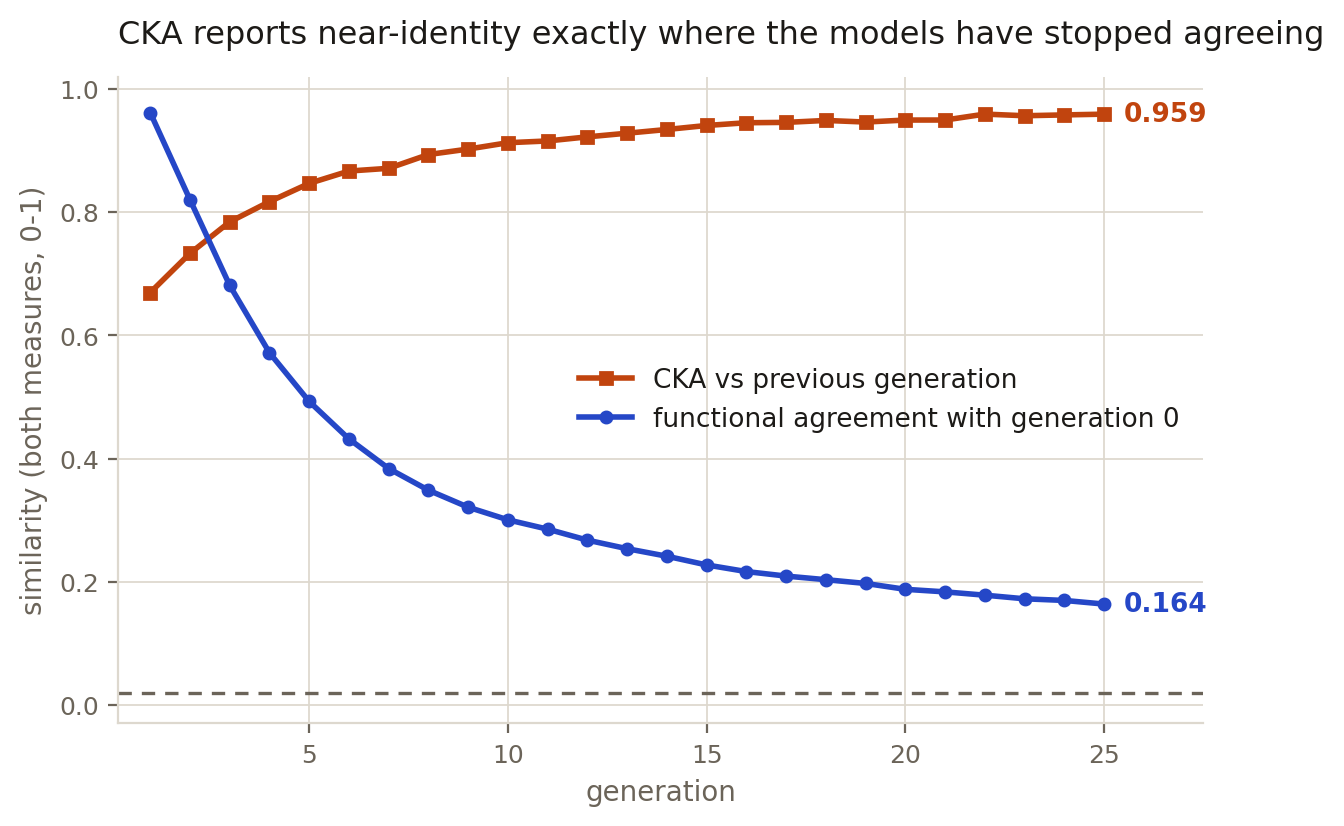
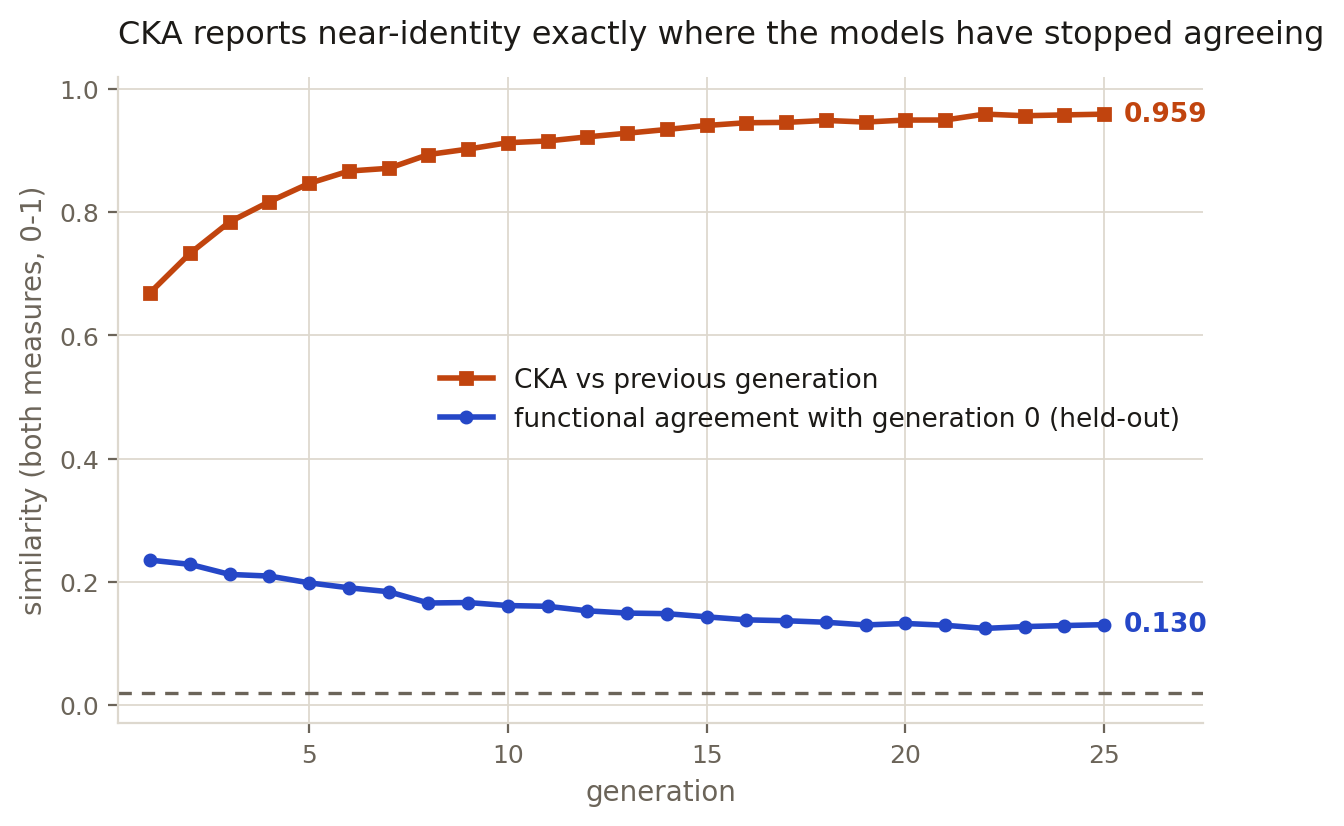
Successfully regenerated agreement figures

diff --git a/analysis/plot_chain.py b/analysis/plot_chain.py
@@ -46,6 +46,30 @@ def col(rows, key):
     return [r["gen"] for r in rows], [r[key] for r in rows]
 
 
+# ---------------------------------------------------------------- C-6 probe data
+#
+# `load` above reads the per-generation JSONL written by
+# `spike_iterated_distill.py --log`, whose metrics are computed on the pool the
+# chain trains on. C-6 (`controls/c6_probe_pool.py`) re-ran every condition
+# measuring on a held-out pool as well, and writes a single nested JSON instead,
+# so it gets its own reader rather than bending `load` to two shapes.
+#
+# Figures that plot agreement read the probe values. C-6 established that the
+# training-pool numbers overstate faithfulness — by 0.753 at generation 1 in the
+# argmax condition — so they are not what a claim should rest on.
+
+def load_c6():
+    with open(os.path.join(LOGS, "c6_probe_pool.json")) as handle:
+        data = json.load(handle)
+    return {r["condition"]: r for r in data["results"]}
+
+
+def c6_col(cond, pool, key):
+    """Generations and one metric for one condition, on the chosen pool."""
+    rows = cond["rows"]
+    return [r["gen"] for r in rows], [r[pool][key] for r in rows]
+
+
 def style(ax, xlabel, ylabel, title):
     ax.set_xlabel(xlabel, fontsize=10, color=MUTED)
     ax.set_ylabel(ylabel, fontsize=10, color=MUTED)
@@ -67,25 +91,67 @@ def save(fig, name):
     print(f"wrote {os.path.relpath(path, REPO)}")
 
 
-def fig_decay():
-    """Agreement with generation 0, swept over distillation temperature."""
-    fig, ax = plt.subplots(figsize=(7, 4.2))
+def fig_train_vs_probe():
+    """C-6: what the training pool hid.
+
+    Replaces the earlier temperature-sweep figure, which plotted training-pool
+    agreement and showed a clean monotone ordering in tau. That ordering does not
+    exist on held-out inputs. Dashed traces are the training pool, solid are the
+    probe pool; the gap between them is the measurement error, not a result.
+    """
+    c6 = load_c6()
+    fig, (a, b) = plt.subplots(1, 2, figsize=(10.5, 4.3))
+
+    # Left: the temperature ordering, and its disappearance.
     for tau in ("0.5", "1.0", "2.0"):
-        rows = load(f"tau{tau}_b4096.jsonl")
-        x, y = col(rows, "agree_gen0")
-        ax.plot(x, y, color=SEQ[tau], linewidth=2, marker="o", markersize=4,
-                label=f"tau = {tau}")
-        ax.annotate(f"{y[-1]:.3f}", (x[-1], y[-1]), textcoords="offset points",
-                    xytext=(7, 0), fontsize=9, color=SEQ[tau], va="center")
-    ax.axhline(CHANCE, color=MUTED, linewidth=1.2, linestyle=(0, (4, 3)))
-    ax.annotate(f"chance = {CHANCE:.3f}", (0.4, CHANCE), textcoords="offset points",
-                xytext=(0, 7), fontsize=9, color=MUTED)
-    style(ax, "generation", "functional agreement with generation 0",
-          "Ancestral information decays monotonically at every temperature")
-    ax.set_ylim(-0.03, 1.02)
-    ax.set_xlim(0.2, 27.5)
-    ax.legend(frameon=False, fontsize=9.5, labelcolor=INK)
-    save(fig, "fig1_decay_by_temperature.png")
+        cond = c6[f"tau{tau}_b4096"]
+        x, tr = c6_col(cond, "train", "agree_gen0")
+        _, pr = c6_col(cond, "probe", "agree_gen0")
+        a.plot(x, tr, color=SEQ[tau], linewidth=1.4, linestyle=(0, (4, 3)), alpha=.85)
+        a.plot(x, pr, color=SEQ[tau], linewidth=2.2, marker="o", markersize=3.5,
+               label=f"tau = {tau}")
+    a.axhline(CHANCE, color=MUTED, linewidth=1.2, linestyle=(0, (4, 3)))
+    a.annotate(f"chance = {CHANCE:.3f}", (0.4, CHANCE), textcoords="offset points",
+               xytext=(0, 7), fontsize=9, color=MUTED)
+    # The three probe traces land within 0.013 of each other, which is closer than
+    # chance agreement itself — so they are labelled as one cluster rather than
+    # three values that would simply overprint.
+    a.annotate("all three within 0.013,\ncloser than chance", (25, 0.137),
+               textcoords="offset points", xytext=(-96, 46), fontsize=9,
+               color=INK, ha="left",
+               arrowprops=dict(arrowstyle="->", color=INK, lw=1.1))
+    style(a, "generation", "functional agreement with generation 0",
+          "Temperature orders decay only on training data")
+    a.set_ylim(-0.03, 1.02)
+    a.legend(frameon=False, fontsize=9.5, labelcolor=INK)
+
+    # Right: argmax, where the gap is present before any chaining happens.
+    cond = c6["argmax"]
+    x, tr = c6_col(cond, "train", "agree_gen0")
+    _, pr = c6_col(cond, "probe", "agree_gen0")
+    b.fill_between(x, pr, tr, color=CAT[1], alpha=.13, linewidth=0)
+    b.plot(x, tr, color=CAT[1], linewidth=1.6, linestyle=(0, (4, 3)),
+           label="training pool")
+    b.plot(x, pr, color=CAT[1], linewidth=2.2, marker="o", markersize=3.5,
+           label="held-out probe pool")
+    for series, value in ((tr, tr[-1]), (pr, pr[-1])):
+        b.annotate(f"{value:.3f}", (x[-1], value), textcoords="offset points",
+                   xytext=(7, 0), fontsize=9.5, color=CAT[1], va="center",
+                   weight="bold")
+    b.axhline(CHANCE, color=MUTED, linewidth=1.2, linestyle=(0, (4, 3)))
+    b.annotate(f"gap {tr[0]-pr[0]:.3f}\nat generation 1", (1, (tr[0] + pr[0]) / 2),
+               textcoords="offset points", xytext=(22, -6), fontsize=9,
+               color=INK, ha="left",
+               arrowprops=dict(arrowstyle="->", color=INK, lw=1.1))
+    style(b, "generation", "functional agreement with generation 0",
+          "Argmax preserves the memorized table, not the function")
+    b.set_ylim(-0.03, 1.02)
+    b.legend(frameon=False, fontsize=9.5, labelcolor=INK, loc="center right")
+
+    for ax in (a, b):
+        ax.set_xlim(0.2, 27.5)
+    fig.tight_layout()
+    save(fig, "fig1_train_vs_probe.png")
 
 
 def fig_cka_blindness():
@@ -93,12 +159,15 @@ def fig_cka_blindness():
     measures on the same 0-1 scale, so they share one axis."""
     rows = load("tau1.0_b4096.jsonl")
     fig, ax = plt.subplots(figsize=(7, 4.2))
-    x, agree = col(rows, "agree_gen0")
-    _, cka = col(rows, "cka_prev")
+    # Agreement is read from the C-6 probe pool; CKA stays on the original log,
+    # which is the only place cka_prev is recorded. The contrast only sharpens:
+    # held-out agreement is 0.130 rather than the 0.164 measured on training data.
+    _, agree = c6_col(load_c6()["tau1.0_b4096"], "probe", "agree_gen0")
+    x, cka = col(rows, "cka_prev")
     ax.plot(x, cka, color=CAT[1], linewidth=2, marker="s", markersize=4,
             label="CKA vs previous generation")
     ax.plot(x, agree, color=CAT[0], linewidth=2, marker="o", markersize=4,
-            label="functional agreement with generation 0")
+            label="functional agreement with generation 0 (held-out)")
     ax.annotate(f"{cka[-1]:.3f}", (x[-1], cka[-1]), textcoords="offset points",
                 xytext=(7, 0), fontsize=9.5, color=CAT[1], va="center", weight="bold")
     ax.annotate(f"{agree[-1]:.3f}", (x[-1], agree[-1]), textcoords="offset points",
@@ -151,22 +220,28 @@ def fig_contraction():
 
 
 def fig_bottleneck():
-    """Agreement decay against bottleneck width at fixed temperature."""
+    """Agreement decay against bottleneck width, on held-out inputs.
+
+    Unlike the temperature ordering, this one survives C-6: the probe-pool
+    ordering 0.025 / 0.058 / 0.130 matches the training pool. Regenerated on
+    probe data for consistency with the other agreement figures, not because the
+    conclusion changed.
+    """
+    c6 = load_c6()
     fig, ax = plt.subplots(figsize=(7, 4.2))
-    series = (("tau1.0_b4096.jsonl", CAT[0], "B = 4096"),
-              ("tau1.0_b512.jsonl", CAT[2], "B = 512"),
-              ("tau1.0_b128.jsonl", CAT[1], "B = 128"))
+    series = (("tau1.0_b4096", CAT[0], "B = 4096"),
+              ("tau1.0_b512", CAT[2], "B = 512"),
+              ("tau1.0_b128", CAT[1], "B = 128"))
     for name, color, label in series:
-        rows = load(name)
-        x, y = col(rows, "agree_gen0")
+        x, y = c6_col(c6[name], "probe", "agree_gen0")
         ax.plot(x, y, color=color, linewidth=2, marker="o", markersize=4, label=label)
         ax.annotate(f"{y[-1]:.3f}", (x[-1], y[-1]), textcoords="offset points",
                     xytext=(7, 0), fontsize=9, color=color, va="center")
     ax.axhline(CHANCE, color=MUTED, linewidth=1.2, linestyle=(0, (4, 3)))
     ax.annotate(f"chance = {CHANCE:.3f}", (0.4, CHANCE), textcoords="offset points",
                 xytext=(0, 7), fontsize=9, color=MUTED)
-    style(ax, "generation", "functional agreement with generation 0",
-          "The bottleneck is a stronger lever than temperature")
+    style(ax, "generation", "functional agreement with generation 0 (held-out)",
+          "On held-out inputs the bottleneck is the only lever that moves the outcome")
     ax.set_ylim(-0.03, 1.02)
     ax.set_xlim(0.2, 27.5)
     ax.legend(frameon=False, fontsize=9.5, labelcolor=INK)
@@ -201,7 +276,7 @@ def fig_c1():
 
 
 if __name__ == "__main__":
-    fig_decay()
+    fig_train_vs_probe()
     fig_cka_blindness()
     fig_contraction()
     fig_bottleneck()
